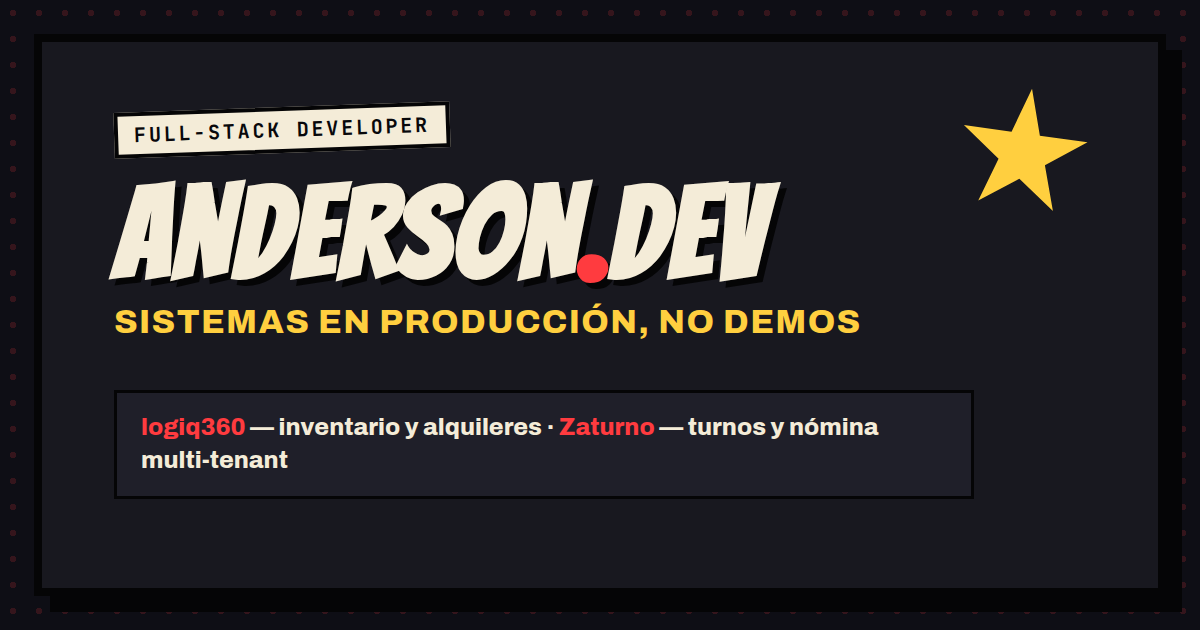
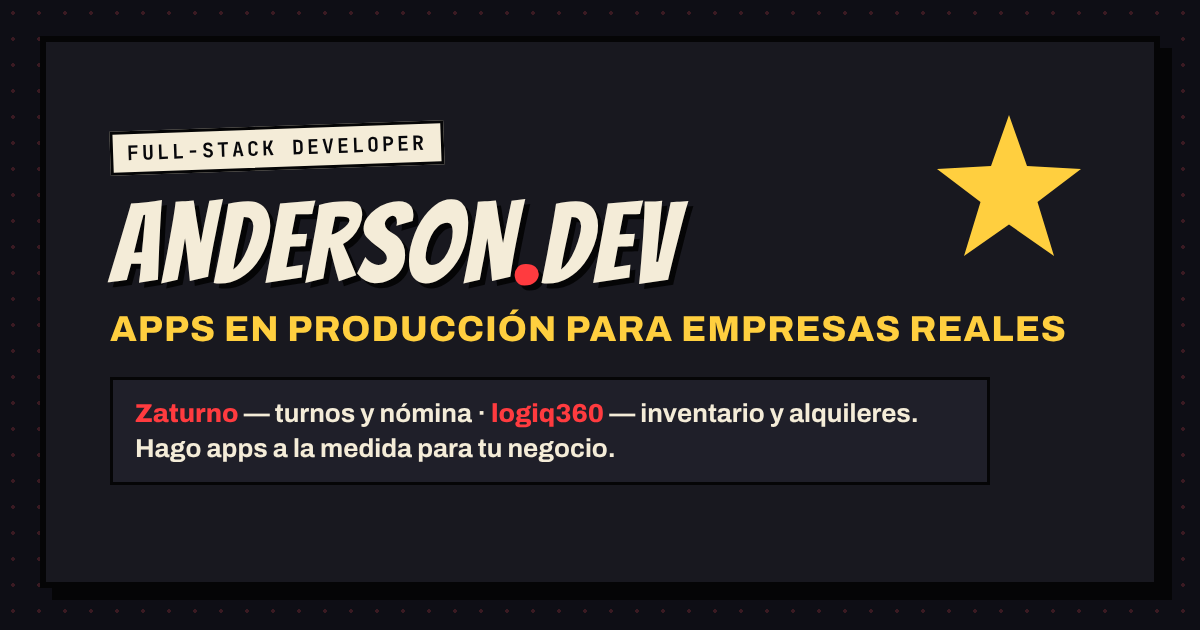
Portafolio: sección Sobre mí, más capturas de logiq360 y nueva imagen de vista previa
Quita la viñeta sin captura de logiq360 y agrega órdenes de mantenimiento y planes.

Claude-Session: https://claude.ai/code/session_01WXfvxofohWaEJF97oWfUTr

diff --git a/src/components/SobreMi.jsx b/src/components/SobreMi.jsx
@@ -1,0 +1,29 @@
+export default function SobreMi() {
+  return (
+    <section className="mb-12">
+      <p className="mb-4 font-mono text-xs uppercase tracking-[0.16em] text-muted">Sobre mí</p>
+      <div className="ink-shadow-sm border-[3px] border-line bg-panel px-6 py-6 sm:px-8">
+        <h2 className="mb-3 font-display text-3xl leading-none tracking-wide text-paper sm:text-4xl">
+          HOLA, SOY <span className="text-accent">ANDERSON</span>
+        </h2>
+        <div className="max-w-[68ch] space-y-3 text-[15px] leading-relaxed text-paper-dim">
+          <p>
+            Soy desarrollador full-stack en Colombia. Me gusta entender cómo trabaja un negocio
+            antes de escribir código: por eso Zaturno y logiq360 nacieron de problemas reales, no
+            de ejercicios.
+          </p>
+          <p>
+            Yo diseño la arquitectura, las reglas de negocio y el modelo de datos, y decido qué se
+            construye en cada momento. Uso Claude Code como colaborador que implementa bajo mi
+            dirección: reviso cada cambio y entiendo cada parte del sistema lo suficiente para
+            explicarla.
+          </p>
+          <p>
+            Mi forma de trabajar es construir por etapas, poner algo útil en manos de las personas
+            pronto y seguir mejorándolo con lo que se aprende en producción.
+          </p>
+        </div>
+      </div>
+    </section>
+  );
+}

diff --git a/src/data/proyectos.js b/src/data/proyectos.js
@@ -42,14 +42,19 @@ export const proyectos = [
         image: "images/logiq360/nueva-cotizacion.jpg",
       },
       {
-        label: "Detalle del evento",
-        desc: "Cliente, fechas y ubicación de cada evento, con el resumen financiero de sus cotizaciones y cuáles siguen pendientes de aprobación.",
-        image: "images/logiq360/detalle-evento.jpg",
-      },
-      {
         label: "Reportes y clientes",
         desc: "Pipeline de cotizaciones con tasa de conversión, ranking de clientes y alertas de clientes que cotizan pero no confirman, para priorizar el seguimiento comercial.",
         image: "images/logiq360/reportes-clientes.jpg",
+      },
+      {
+        label: "Órdenes de mantenimiento",
+        desc: "Cada orden guía el siguiente paso, lista los elementos en mantenimiento por lote, permite asignar responsable y guardar fotos del trabajo.",
+        image: "images/logiq360/orden-mantenimiento.jpg",
+      },
+      {
+        label: "Planes de suscripción",
+        desc: "Cada empresa ve su plan, lo que incluye y lo que no, y puede cambiarlo desde el sistema; el límite de empleados y de elementos se aplica según el plan.",
+        image: "images/logiq360/planes-suscripcion.jpg",
       },
     ],
   },

diff --git a/src/App.jsx b/src/App.jsx
@@ -4,6 +4,7 @@ import Skills from "./components/Skills";
 import ProjectCard from "./components/ProjectCard";
 import ZaturnoDetalle from "./components/ZaturnoDetalle";
 import Servicios from "./components/Servicios";
+import SobreMi from "./components/SobreMi";
 import Footer from "./components/Footer";
 import { proyectos } from "./data/proyectos";
 
@@ -55,6 +56,8 @@ export default function App() {
       <ZaturnoDetalle />
 
       <Servicios />
+
+      <SobreMi />
 
       <Skills />
 
